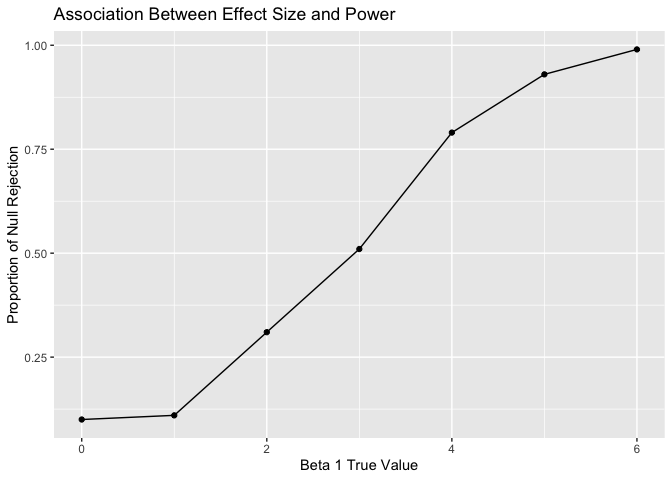
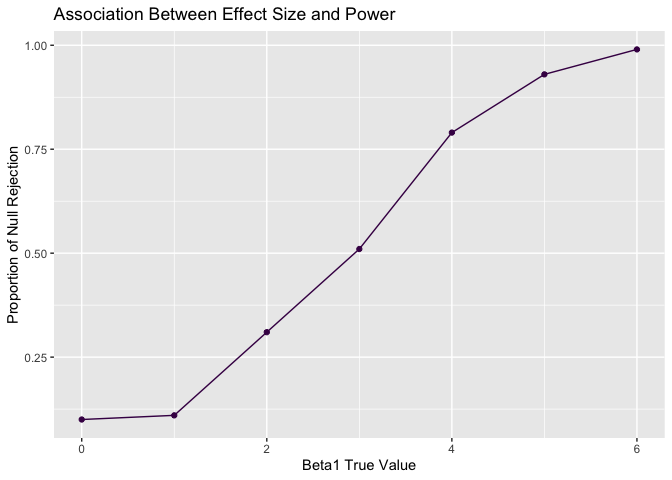
Edited the effect size and power plot.

diff --git a/p8105_hw5_niz2000.md b/p8105_hw5_niz2000.md
@@ -408,7 +408,7 @@ study_df %>%
 ``` r
 linear_regression= function(n = 30, beta0 = 2, beta1 = 0) {
   regression_data = tibble(
-    x = rnorm(n, mean = 1, sd = 1),
+    x = rnorm(n, mean = 0, sd = 1),
     y = beta0 + beta1 * x + rnorm(n, 0, 50^0.5)
   )
   ls_fit = lm(y ~ x, data = regression_data) 
@@ -416,8 +416,11 @@ linear_regression= function(n = 30, beta0 = 2, beta1 = 0) {
     filter(term == "x")
 }
 
+#Function for Beta 1 = 0
   regression_results = rerun(100, linear_regression()) %>%
     bind_rows()
+  
+#Function for Beta 1 = 0 - 6
   results = tibble(
     beta1 = c(0, 1, 2, 3, 4, 5, 6)) %>%
     mutate(
@@ -446,36 +449,45 @@ results
 ## Plot Showing the Proportion of Times the Null was Rejected
 
 ``` r
-proportion_rejected = results %>%
+results %>%
   mutate(rejection = cut(p.value, breaks=c(0, 0.05, Inf), 
-                         labels=c("Rejected", "Not_Rejected"))) %>%
+    labels=c("Rejected", "Not_Rejected"))) %>%
   group_by(beta1, rejection) %>%
   summarise(count = n()) %>%
   mutate(
     proportion = count / sum(count),
     as.character(beta1)) %>%
   filter(rejection == "Rejected") %>%
+  #distinct(.keep_all = TRUE) %>%
   ggplot(aes(x = beta1, y = proportion)) + 
-    geom_point() + 
-    geom_line(group = 1) +
+    geom_point(aes(color = "viridis"), show.legend = FALSE) + 
+    geom_line(aes(color = "viridis"), show.legend = FALSE) +
     labs(
       title = "Association Between Effect Size and Power",
-      x = "Beta 1 True Value",
-      y = "Proportion of Null Rejection")
-proportion_rejected
+      x = "Beta1 True Value",
+      y = "Proportion of Null Rejection")  +
+    viridis::scale_color_viridis(discrete = TRUE) 
 ```
 
 ![](p8105_hw5_niz2000_files/figure-gfm/Effect%20Size%20and%20Power-1.png)<!-- -->
 
-EEOP\_prevalence = Posture %\>%
-mutate(EEOP\_categorization=cut(eop\_size\_mm, breaks=c(-Inf, 10, Inf),
-labels=c(“No EEOP”, “EEOP”))) %\>% group\_by(EEOP\_categorization) %\>%
-summarise(n=n()) %\>% mutate(Prevalence = n / sum(n)) %\>%
-knitr::kable(format= ‘pandoc’, caption = “Table: EEOP Prevalence”)
-EEOP\_prevalence
+``` r
+results
+```
 
-mutate( rejection = if\_else(p.value \< 0.05, “rejected”, p.value),
-rejection = if\_else(rejection \>= 0.05, “fail\_to\_reject”, rejection))
-%\>%
+    ## # A tibble: 700 x 6
+    ##    beta1 term  estimate std.error statistic p.value
+    ##    <dbl> <chr>    <dbl>     <dbl>     <dbl>   <dbl>
+    ##  1     0 x        0.792     1.60     0.496   0.624 
+    ##  2     0 x        3.68      1.47     2.51    0.0182
+    ##  3     0 x       -1.47      1.67    -0.883   0.385 
+    ##  4     0 x       -0.610     0.982   -0.621   0.539 
+    ##  5     0 x       -0.161     2.24    -0.0716  0.943 
+    ##  6     0 x        3.21      1.35     2.38    0.0245
+    ##  7     0 x       -2.37      1.40    -1.69    0.102 
+    ##  8     0 x       -1.32      1.11    -1.20    0.242 
+    ##  9     0 x       -0.993     1.29    -0.770   0.447 
+    ## 10     0 x        0.795     1.80     0.441   0.662 
+    ## # … with 690 more rows
 
 ## Plot Showing the Average Estimate and True Value of Beta 1
